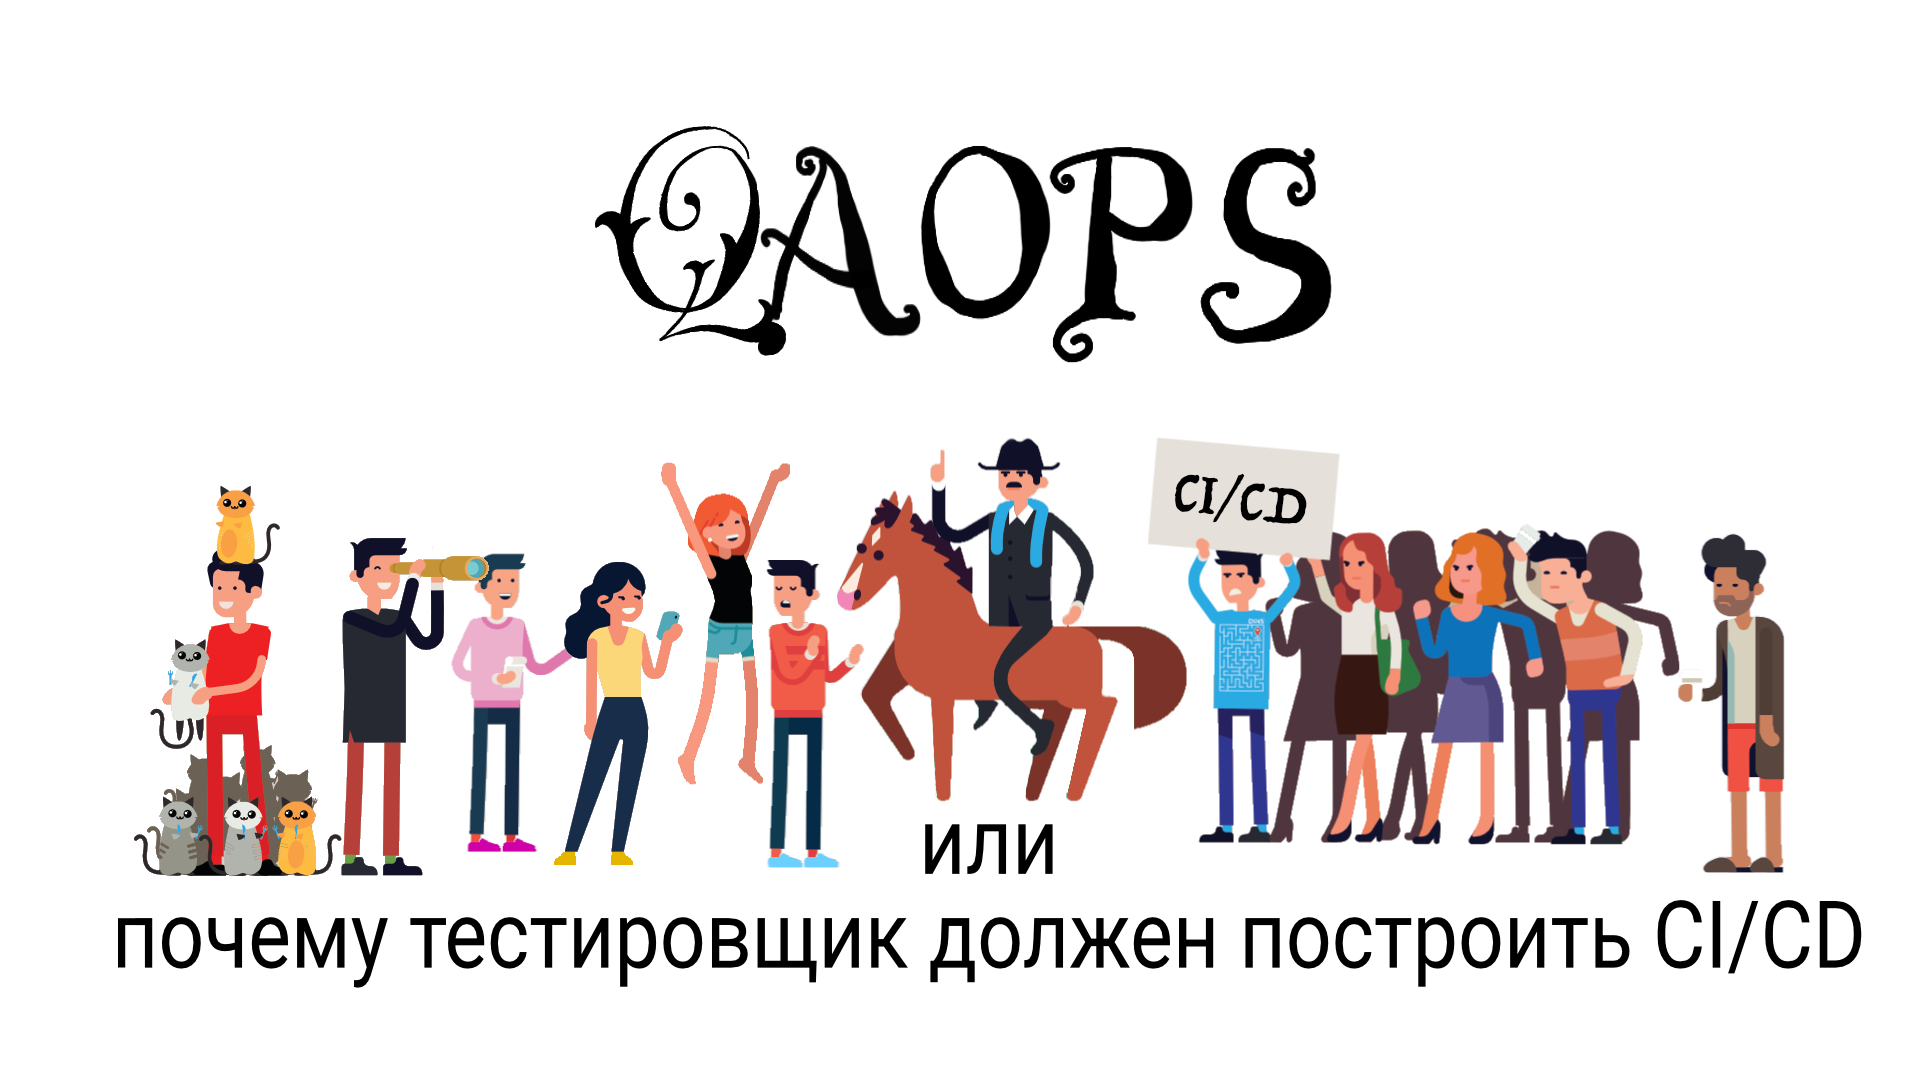
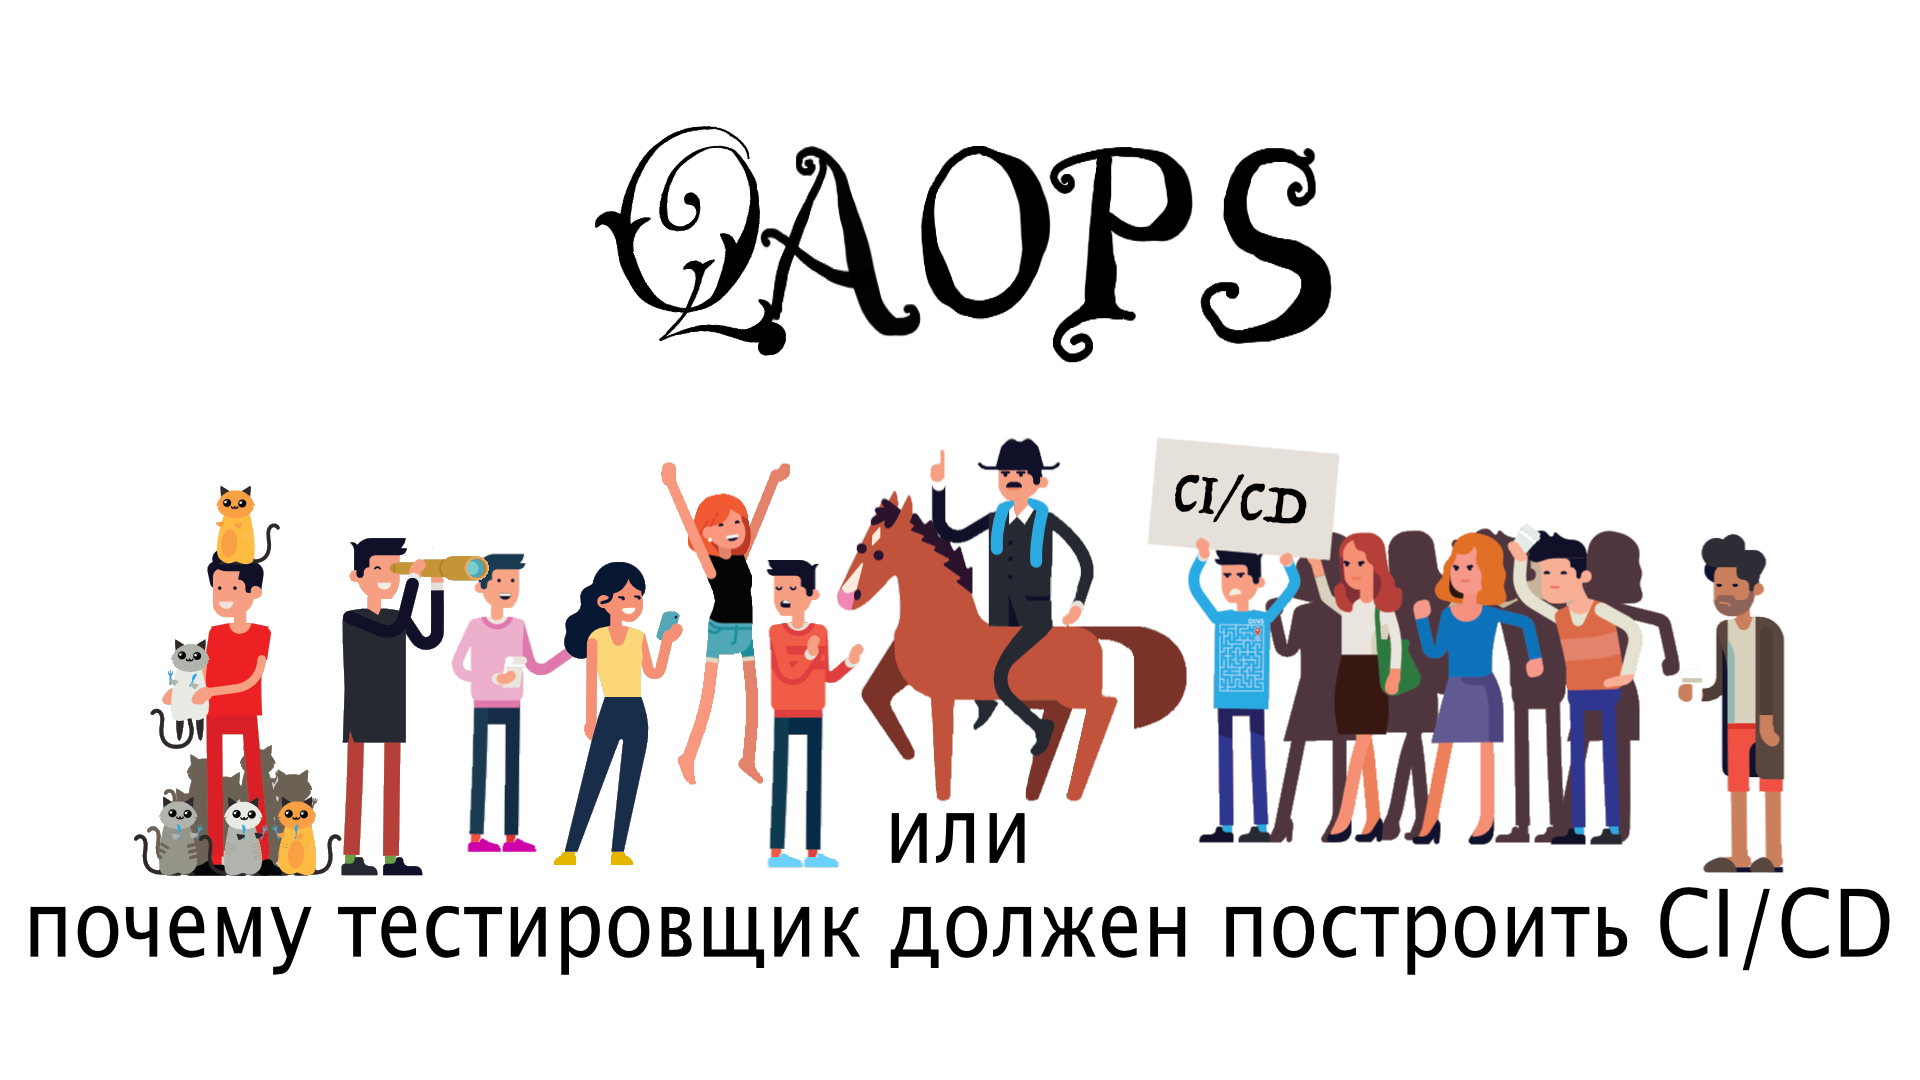
Fix images background

Changed region(s): [[0.0, 0.7333, 1.0, 0.9167]]

diff --git a/slides/intro/01_scheme_more_tests_1.html b/slides/intro/01_scheme_more_tests_1.html
@@ -1,6 +1,6 @@
 <h2 style="text-transform: none;">Тестирование — это просто</h2>
 
-<img class="fade_in plain stretch" src="resources/img/scheme_testing_is_simple.png">
+<img class="fade_in plain stretch" src="resources/img/scheme_testing_is_simple_without_title.png">
 
 <aside class="notes">
 </aside>
